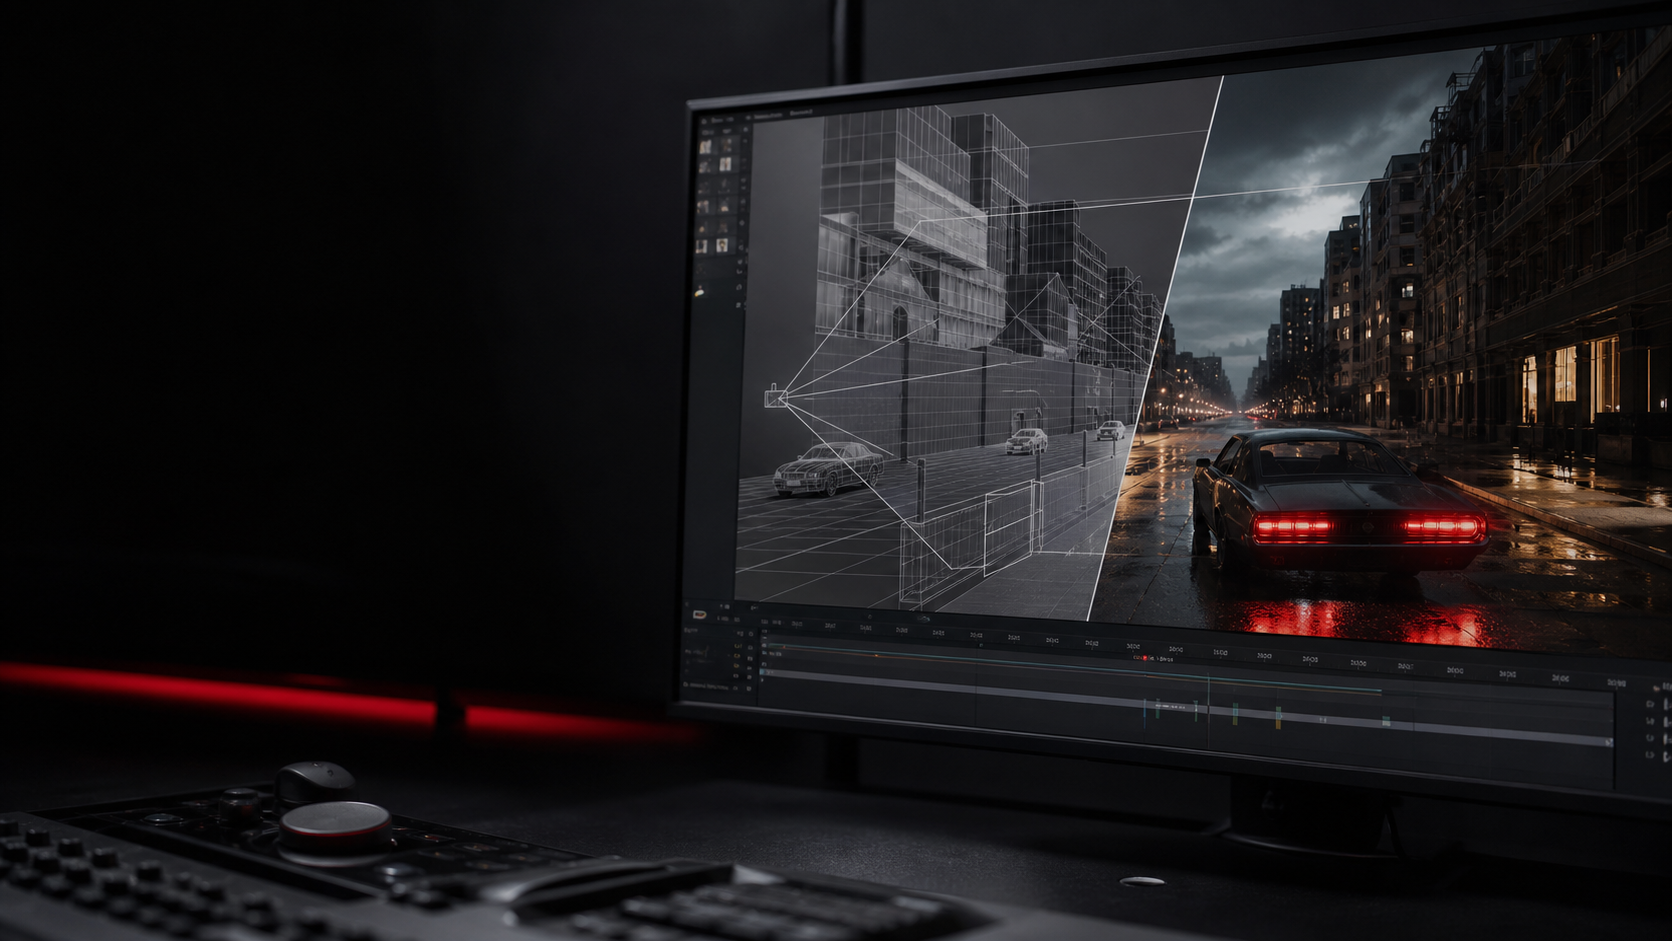
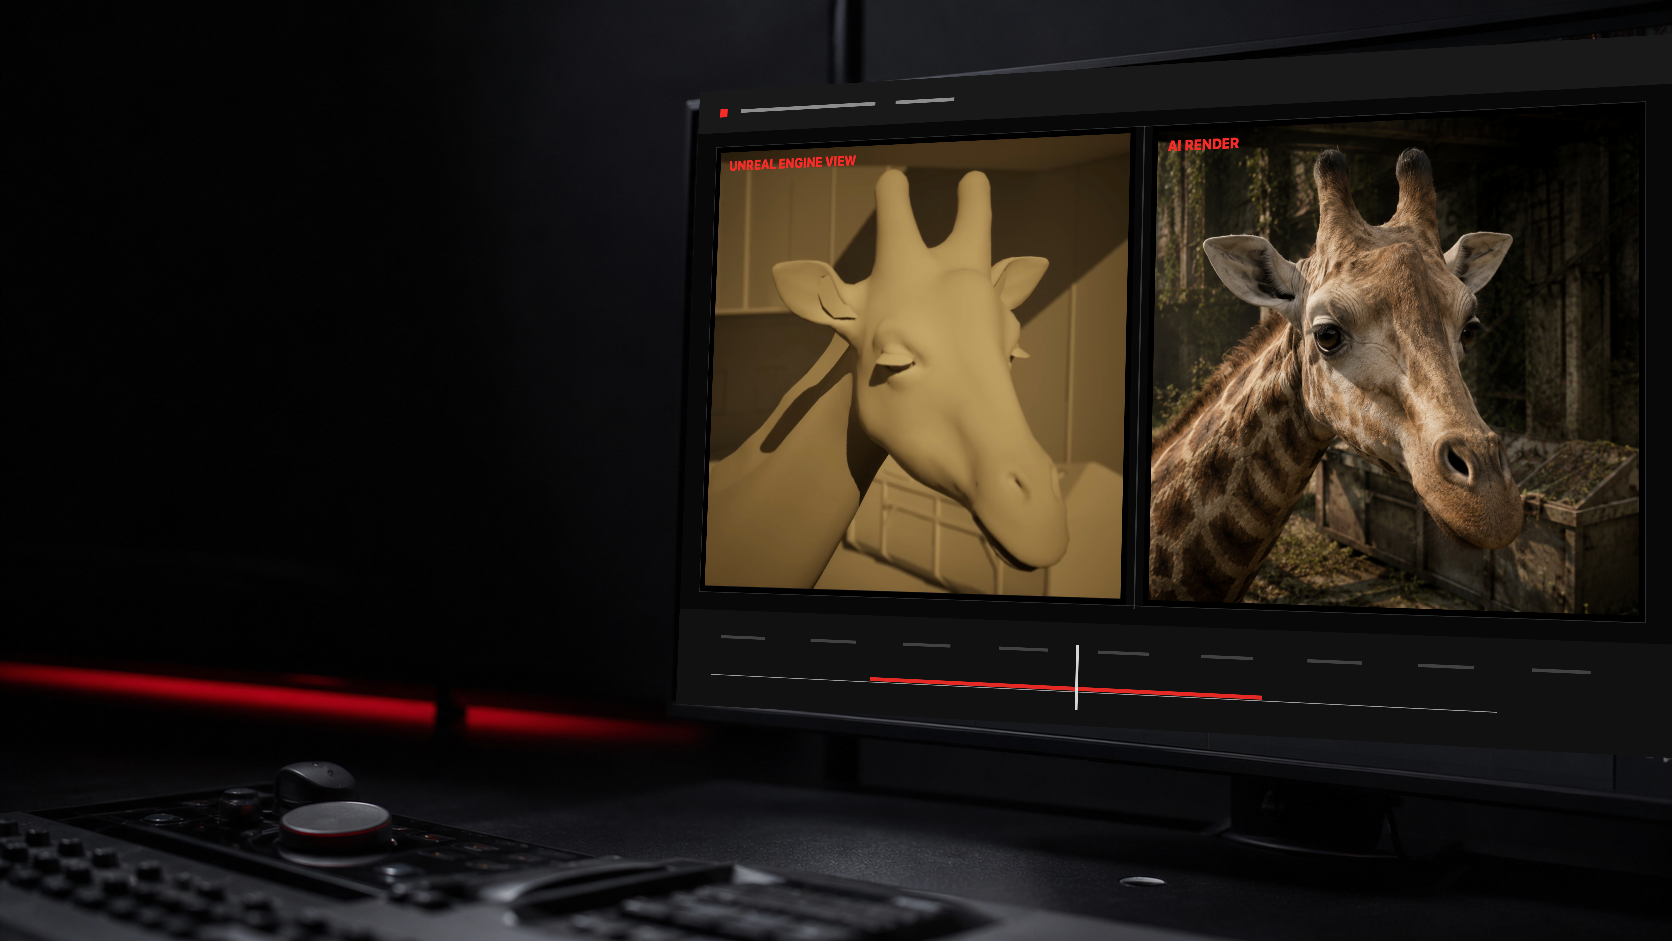
Update hero image with real pipeline assets

diff --git a/styles.css b/styles.css
@@ -129,7 +129,7 @@ a {
 }
 
 .hero-bg {
-  background-image: url("assets/hero-playblast-ai-render.png");
+  background-image: url("assets/hero-playblast-ai-render.png?v=20260706-real-assets");
   background-size: cover;
   background-position: center;
   filter: saturate(0.92) contrast(1.04);